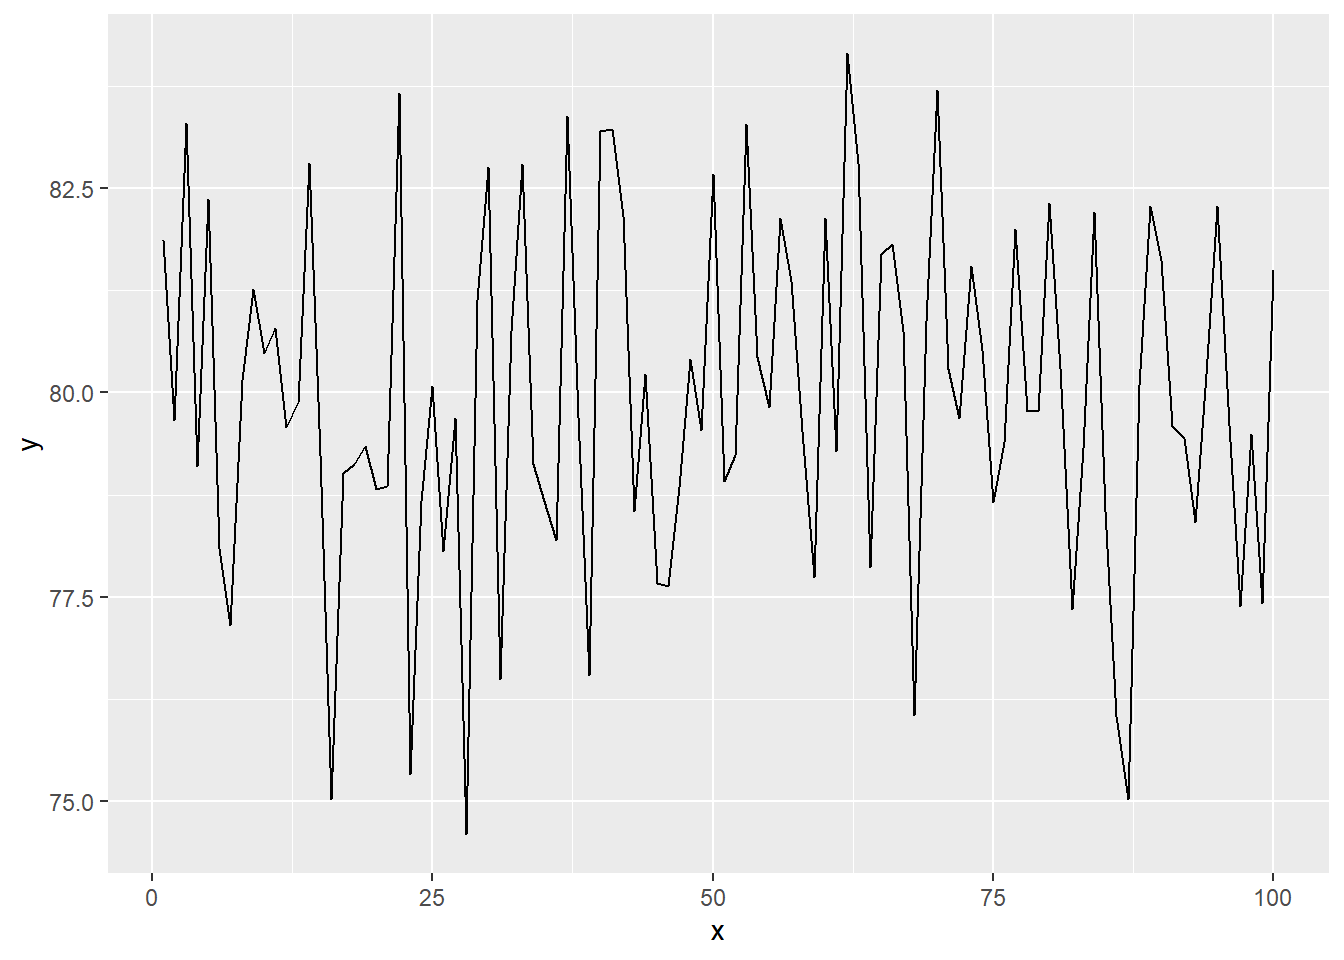
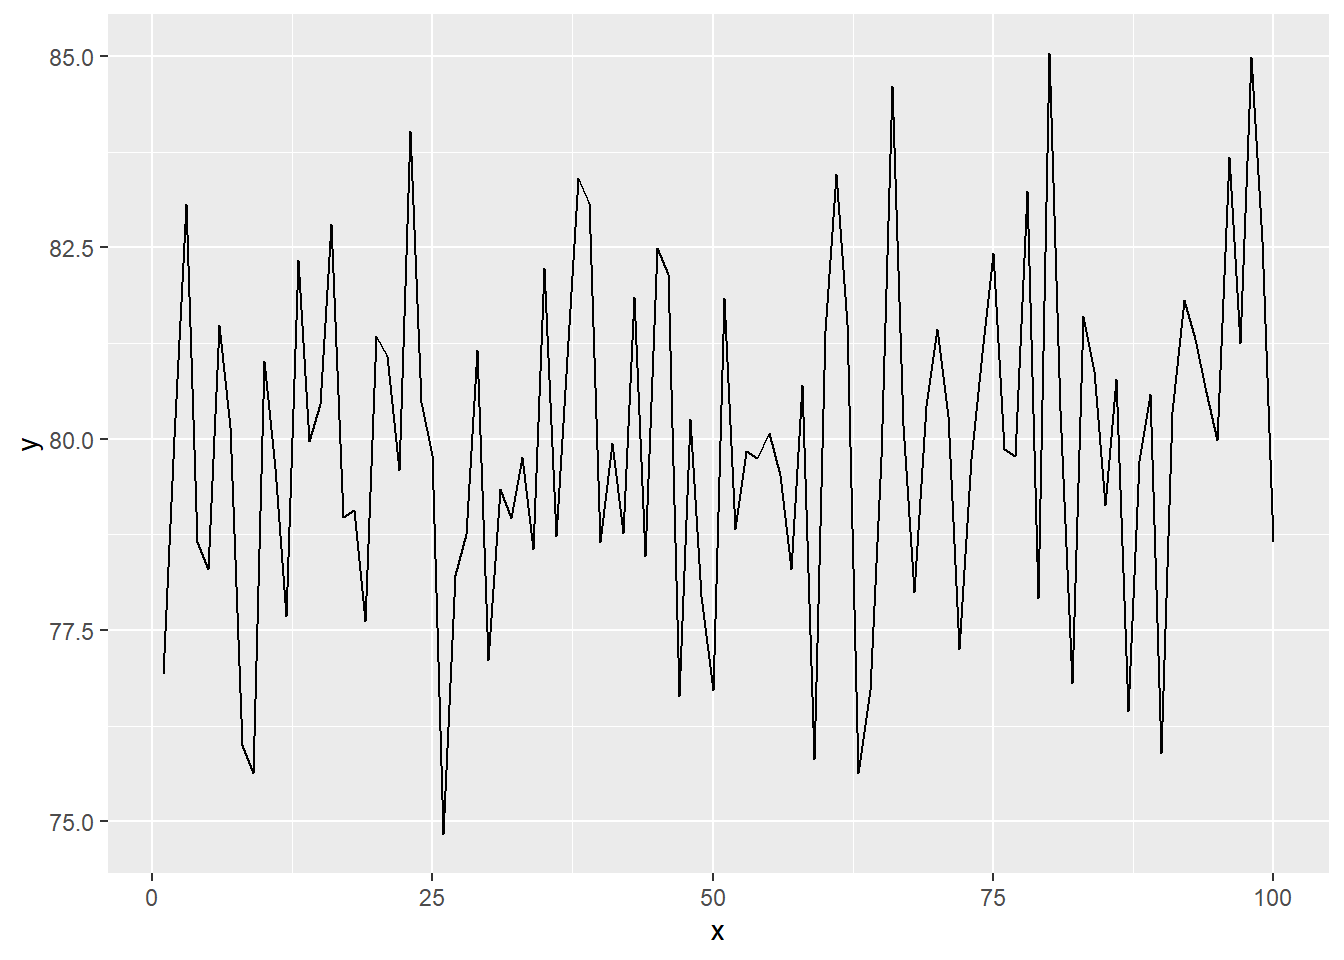
up

diff --git a/content/work/2022-01-11-sampling-technique/index.zh.html b/content/work/2022-01-11-sampling-technique/index.zh.html
@@ -5,6 +5,7 @@ date: '2022-01-11'
 slug: Sampling Technique
 categories: []
 tags: []
+description: 抽样技术(持续更新中...)
 ---
 
 <script src="{{< blogdown/postref >}}index.zh_files/header-attrs/header-attrs.js"></script>
@@ -16,21 +17,21 @@ tags: []
 <pre class="r"><code>x &lt;- runif(100000,60,100)</code></pre>
 <pre class="r"><code>y &lt;- sample(x,size = 30)
 mean(y)</code></pre>
-<pre><code>## [1] 78.75042</code></pre>
+<pre><code>## [1] 78.65875</code></pre>
 <pre class="r"><code>(z &lt;- replicate(100,mean(sample(x,size = 30))))</code></pre>
-<pre><code>##   [1] 81.85871 79.65601 83.29543 79.09477 82.36333 78.09588 77.14959 80.14607
-##   [9] 81.26928 80.47630 80.78936 79.57375 79.87940 82.80245 79.22904 75.03253
-##  [17] 79.01597 79.12020 79.34886 78.81268 78.85466 83.65562 75.33246 78.66923
-##  [25] 80.07591 78.05565 79.69155 74.59553 81.12387 82.75469 76.49189 80.75533
-##  [33] 82.79509 79.11945 78.67043 78.20055 83.37694 79.70351 76.54855 83.19837
-##  [41] 83.22256 82.15340 78.55432 80.22215 77.66417 77.63770 78.84263 80.40975
-##  [49] 79.53466 82.67317 78.91033 79.22989 83.27792 80.42738 79.82187 82.13290
-##  [57] 81.36654 79.53271 77.74822 82.13034 79.27706 84.14733 82.80156 77.86436
-##  [65] 81.69768 81.81296 80.75115 76.05847 80.87773 83.69870 80.28199 79.68133
-##  [73] 81.55084 80.51635 78.66121 79.39285 81.99184 79.77255 79.77501 82.31210
-##  [81] 80.29640 77.34694 79.32576 82.20387 78.54482 76.04679 75.03336 80.08936
-##  [89] 82.27487 81.61706 79.58657 79.44489 78.41554 80.22471 82.28450 79.60546
-##  [97] 77.39312 79.49443 77.41976 81.50087</code></pre>
+<pre><code>##   [1] 76.92250 80.01890 83.05973 78.64466 78.30379 81.48549 80.15622 75.99771
+##   [9] 75.63742 81.01711 79.61969 77.68580 82.32970 79.96561 80.45247 82.80263
+##  [17] 78.98188 79.06276 77.61830 81.33830 81.07723 79.59022 84.01411 80.48018
+##  [25] 79.78773 74.83082 78.22070 78.75466 81.15473 77.10317 79.34263 78.96141
+##  [33] 79.76701 78.55557 82.23424 78.73279 81.07127 83.41134 83.07270 78.64579
+##  [41] 79.94641 78.76196 81.85324 78.46903 82.48564 82.14714 76.63970 80.25549
+##  [49] 77.94076 76.71135 81.84004 78.81846 79.83783 79.74425 80.06808 79.52255
+##  [57] 78.30358 80.69514 75.82110 81.40582 83.46204 81.50429 75.63174 76.71117
+##  [65] 79.75601 84.61144 80.18080 77.99463 80.42465 81.43633 80.29734 77.25542
+##  [73] 79.73573 81.11472 82.42126 79.85942 79.77899 83.23131 77.91247 85.03597
+##  [81] 80.37836 76.81058 81.60157 80.88061 79.13397 80.77792 76.44076 79.71313
+##  [89] 80.58376 75.89815 80.35407 81.81189 81.29807 80.60978 79.98666 83.67917
+##  [97] 81.25025 84.99073 82.57920 78.65606</code></pre>
 <pre class="r"><code>data &lt;- data.frame(
   x = 1:100,
   y = z
@@ -44,10 +45,10 @@ ggplot(data = data,mapping = aes(x = x,y = y)) +
   d_sd = sd(data$y)
 ))</code></pre>
 <pre><code>## $d_mean
-## [1] 79.95244
+## [1] 79.96967
 ## 
 ## $d_sd
-## [1] 2.123407</code></pre>
+## [1] 2.205139</code></pre>
 <pre class="r"><code>#写一个函数吧！
 func &lt;- function(n){
   z &lt;- replicate(100,mean(sample(x,size = n)))
@@ -62,17 +63,21 @@ func &lt;- function(n){
 }
 func(n = 300)</code></pre>
 <pre><code>## $d_mean
-## [1] 79.97701
+## [1] 79.98616
 ## 
 ## $d_sd
-## [1] 0.6379348</code></pre>
+## [1] 0.6504559</code></pre>
 <pre class="r"><code>func(n = 1000)</code></pre>
 <pre><code>## $d_mean
-## [1] 80.03828
+## [1] 79.97585
 ## 
 ## $d_sd
-## [1] 0.3578753</code></pre>
+## [1] 0.3327392</code></pre>
 <p>标准差是抽样误差的一种表现形式；在其他条件相同的情况下，样本量越大，抽样误差越小。</p>
 <p>以上均为课本原话，与试验结果相符</p>
 <p>第二章 简单随机抽样</p>
 <p><a href="http://www.crup.com.cn/DownResource/DownFile?id=165cef6b-b3c4-480e-ab96-d9dcce34e868">《企业案例数据》数据集</a></p>
+<div class="figure">
+<img src="http://wx4.sinaimg.cn/large/006GJQvhly1fz3hyfp428g308k06gh65.gif" alt="" />
+<p class="caption">Go sleep</p>
+</div>
